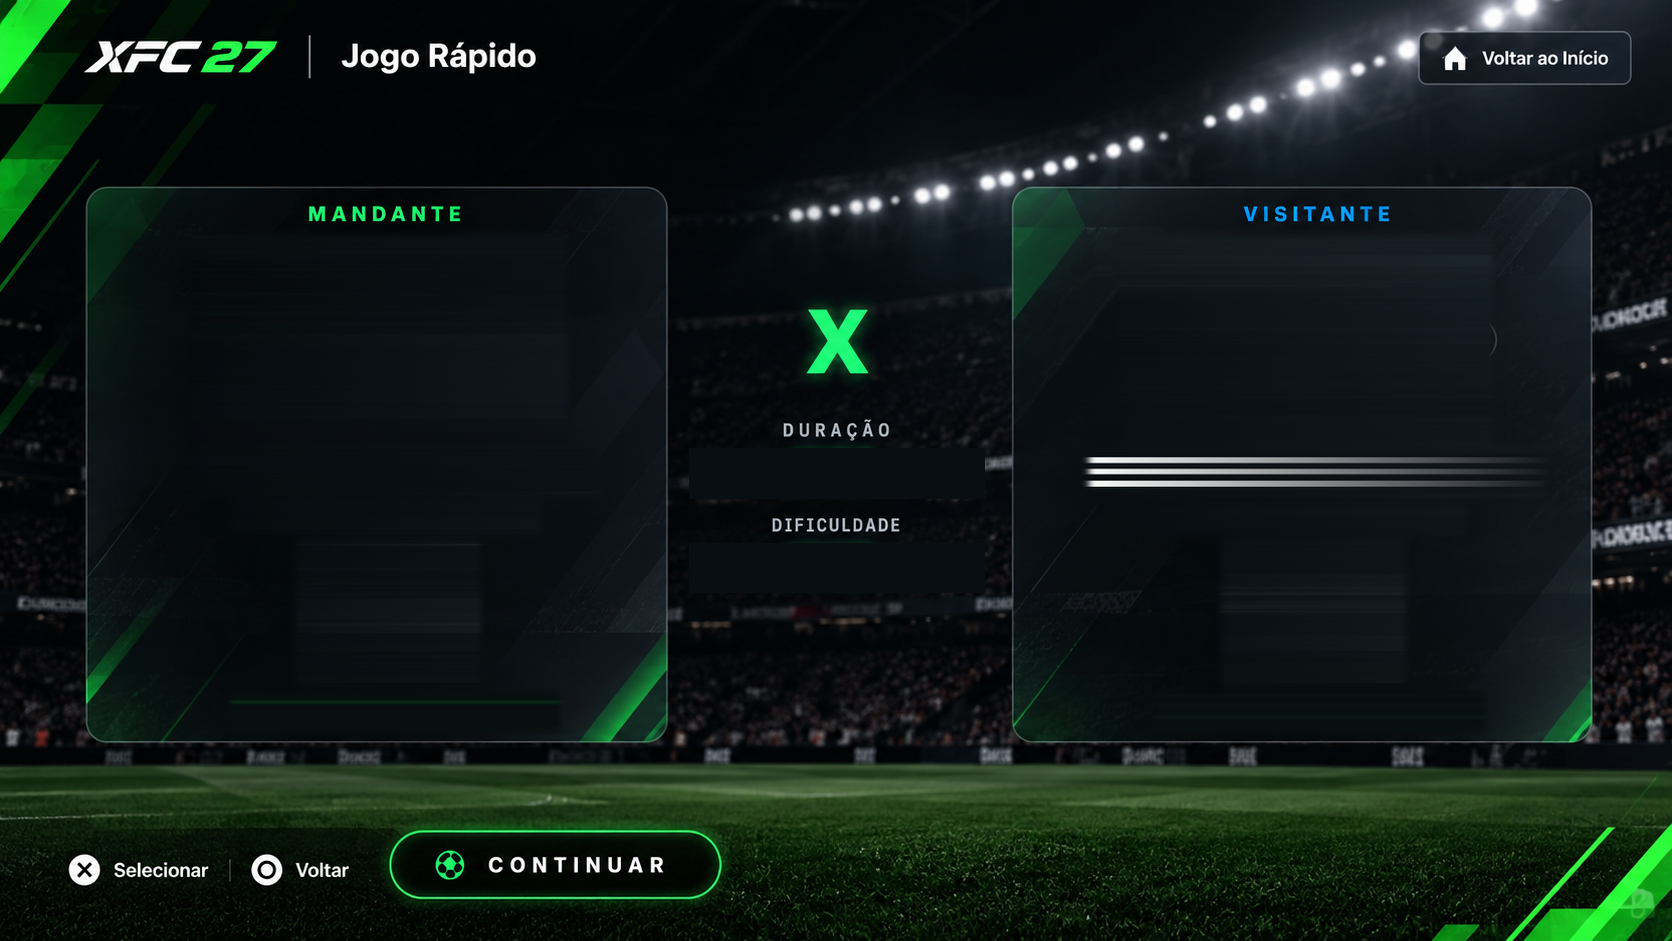
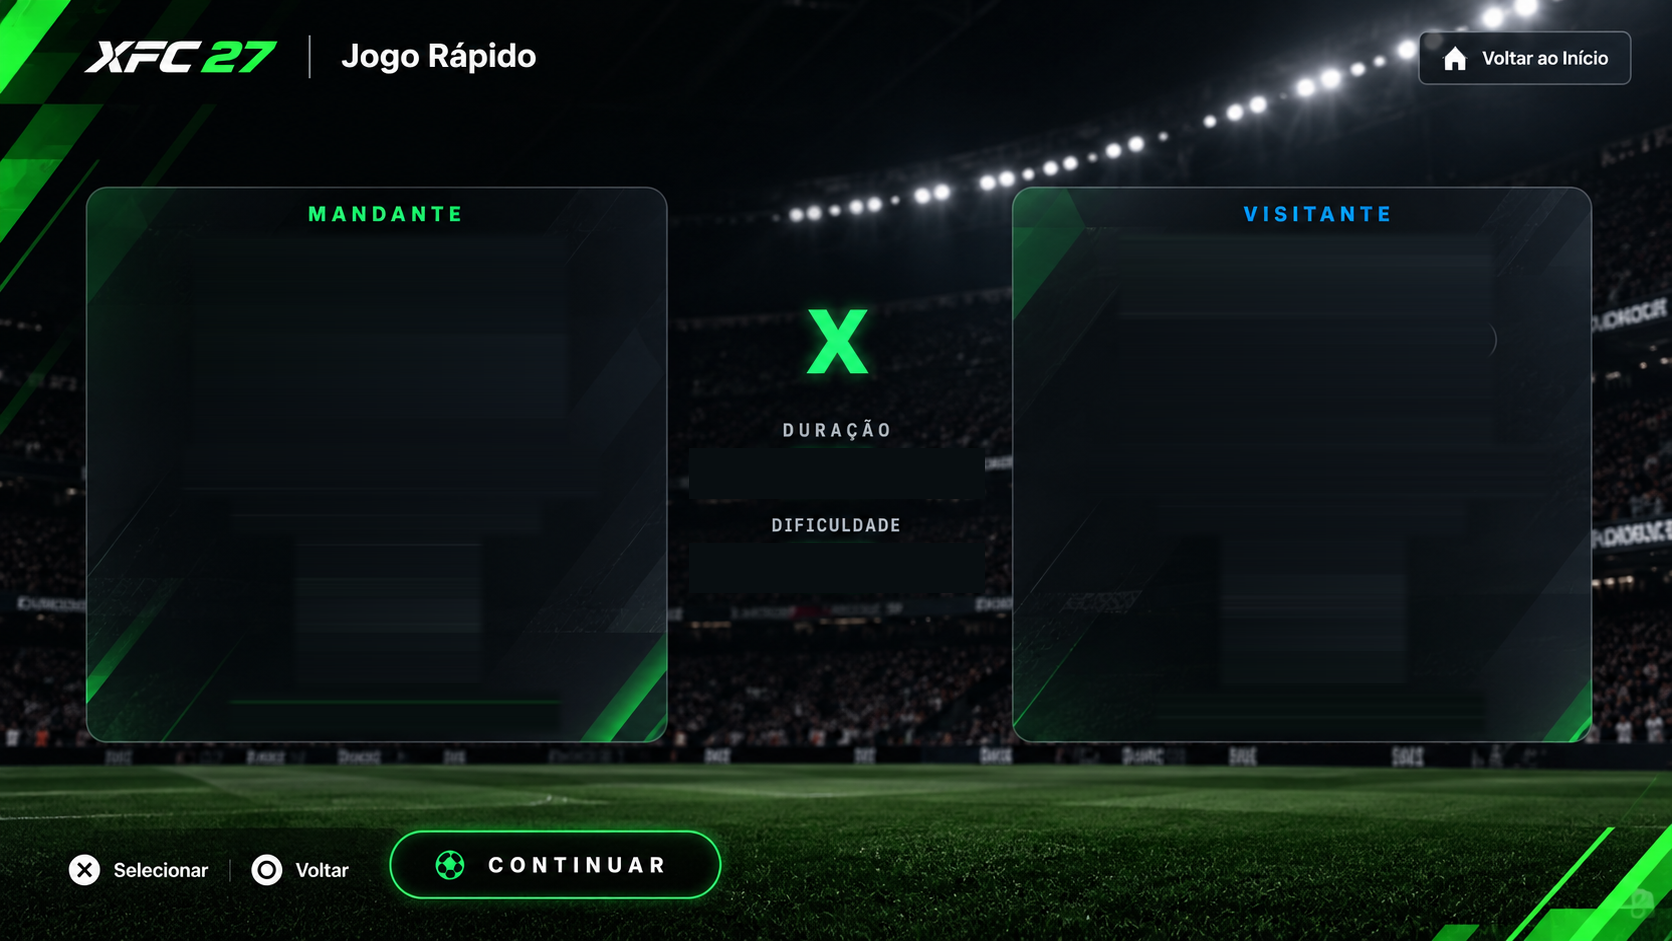
fix(xfc): limpar resíduos do painel de referência [publish-apk]

Changed region(s): [[0.6531, 0.4623, 0.9019, 0.5239]]

diff --git a/xfc-game/tools/prepare-selection-art.py b/xfc-game/tools/prepare-selection-art.py
@@ -16,7 +16,7 @@ for shift in [0,868]:
     mask=mask.filter(ImageFilter.GaussianBlur(3*sx))
     plate=source.copy()
     for y in range(round(212*sy),round(695*sy)):
-        left=source.getpixel((round((180+shift)*sx),y));right=source.getpixel((round(((590 if y/sy<610 else 535 if y/sy<640 else 180)+shift)*sx),y))
+        left=source.getpixel((round(((145 if 415<y/sy<468 else 160 if y/sy<610 else 180)+shift)*sx),y));right=source.getpixel((round(((590 if y/sy<610 else 535 if y/sy<640 else 180)+shift)*sx),y))
         for x in range(round((145+shift)*sx),round((605+shift)*sx)):
             t=max(0,min(1,(x/sx-shift-160)/430))
             plate.putpixel((x,y),tuple(round(a*(1-t)+b*t) for a,b in zip(left,right)))
